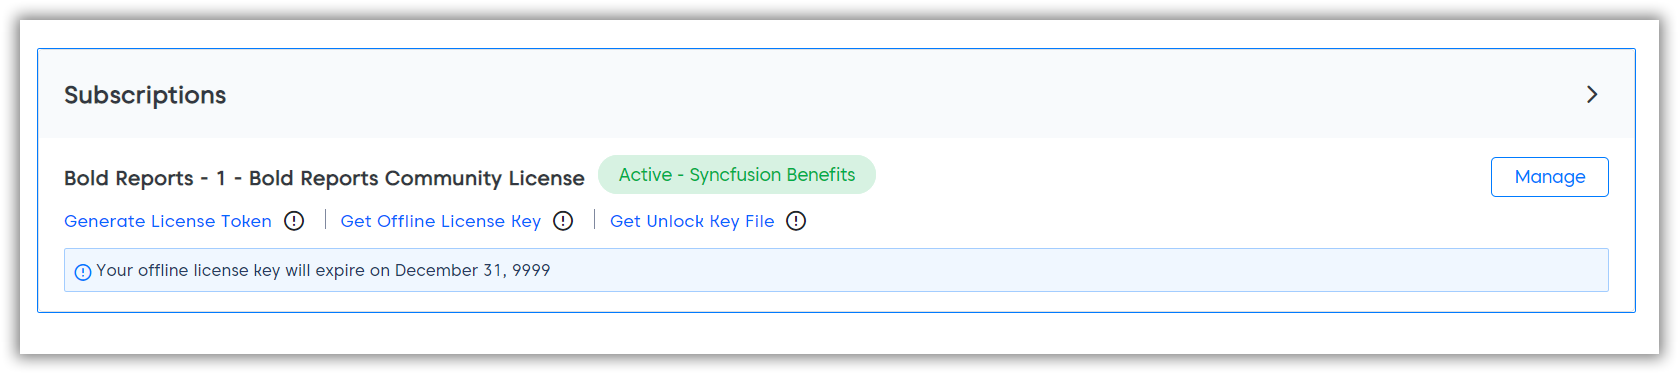
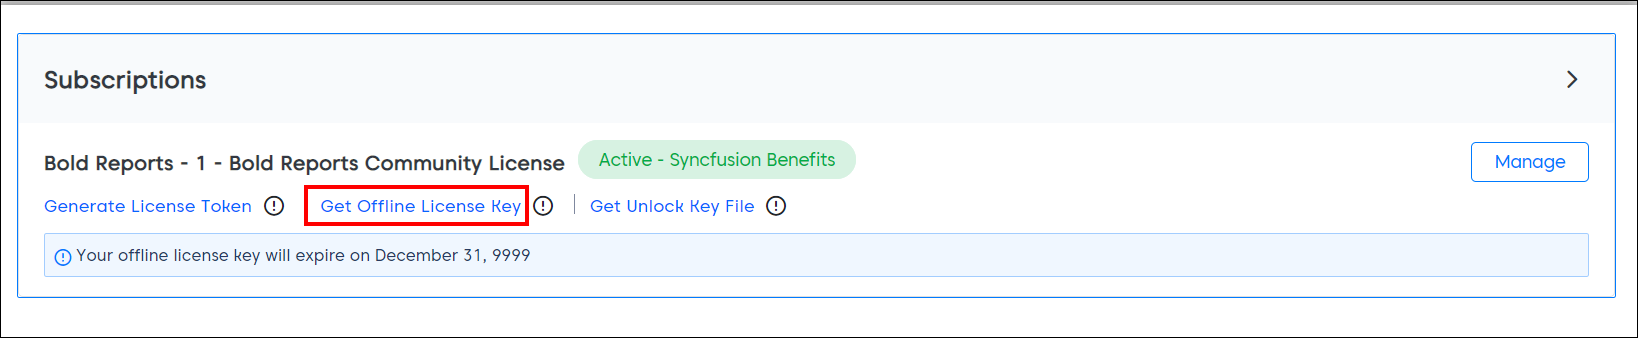
documentation(REPORT-345017): includes offline license

Changed region(s): [[0.0, 0.0, 1.0, 1.0], [0.8718, 0.503, 0.9029, 0.5325]]

diff --git a/docs/licensing.md b/docs/licensing.md
@@ -6,28 +6,91 @@ platform: report-platform
 documentation: ug
 ---
 
-# Enterprise License overview
+# Enterprise License Overview
 
-Starting with the version v2.x, Bold Reports introduced a new licensing system.
+An enterprise license is a type of software licensing agreement that grants a large organization the right to use a software product across the entire business. It allows them to use the software or service across the entire organization without needing to get individual licenses for each user or device.
+
+**Key characteristics of an enterprise license often include:**
+
+1. **Unlimited Usage:** The software can be installed and used on any number of devices within the organization, without restrictions on the number of users or installations.
+
+2. **Centralized Management:** The organization can manage all licenses centrally, making it easier to track usage, renewals, and compliance.
+
+3. **Additional Features:** Enterprise licenses often come with access to additional features or services, such as premium support, training, and customization options.
+
+4. **Cost Efficiency:** Compared to purchasing individual licenses for each user or device, enterprise licensing offers cost efficiency. This could involve a flat fee, a pricing structure based on the organization's size, or a usage-based model.
+
+## Types of License validation in Bold Reports:
+
+1. [Online License Validation](#online-license-validation)
+
+2. [Offline License Validation](#offline-license-validation)
+
+## Online License Validation
+
+* Online license validation is a process used by software companies to verify the authenticity and legality of a software license by connecting to the internet. It ensures that the provided license key or credentials are legitimate before allowing the software to operate or granting access to certain features.
+
+* To activate your account and start the Bold Reports Enterprise Application using online license validation, use your login credentials. For more detailed instructions, please follow the [documentation](./../administrator-guide/application-startup/#activate-the-account-using-login-credentials).
+
+### How It Works
+
+1. **User Input:** When a user installs or activates the software, they enter a license key or credentials provided by the software vendor.
+
+2. **License Check:** The software sends a request to the vendor's server over the internet, including details about the license key or credentials.
+
+3. **Validation:** The server checks the provided license key or credentials to verify if they are genuine, unused, and align with the authorized usage rights.
+
+4. **Authorization:** If the license key meets the criteria and is valid, the software is authorized to run or access various features according to the terms of the license agreement.
+
+### Uses of an Online License Validation
+
+1. **Anti-Piracy Measure:** Online validation helps prevent software piracy by ensuring that only genuine and authorized license keys are accepted, reducing unauthorized usage or distribution.
+
+2. **Ensuring Compliance:** It ensures users adhere to the software license terms and conditions, allowing software providers to monitor and regulate authorized software use.
+
+3. **Security Enhancement:** By validating licenses online, it adds a layer of security, allowing only legitimate users with authorized licenses to access the software, reducing the risk of unauthorized access or security breaches.
+
+4. **Subscription and Payment Models:** It supports subscription-based or usage-based payment models by periodically verifying licenses to ensure users maintain active subscriptions or licenses for continued access.
+
+5. **Version Control and Updates:** Online validation ensures users have access to the correct version or updates of the software, maintaining compatibility, security, and functionality.
 
 ## Offline license validation
 
-Starting with the version v2.4.x, Bold Reports introduced an offline licensing system.
+* Offline license validation involves authenticating the legitimacy of a software license without requiring an active internet connection. It verifies the validity and authenticity of a provided license key or credentials locally on the device without connecting to a central server or online system.
 
-We have provided the support to validate the license even when the machine is without an internet connection.
+* While the default setting for the Bold Reports License mandates online license validation, if you face network limitations or any barriers hindering online license validation, you can obtain an offline license key for your subscription.
 
-This topic describes how to enable offline license validation in the Bold Reports Enterprise Edition. Follow the given steps:
+* To activate your account and start the Bold Reports Enterprise Application using offline license validation, please follow the [documentation](./../administrator-guide/application-startup/#offline-installation).
 
-### Get offline license key file
+### How It Works
 
-The offline License key file( `.lic` ) can be generated from the [Downloads](https://www.boldreports.com/account/downloads) section of
-the [Bold Reports](https://www.boldreports.com/account) site.
+1. **Local Verification:** The process authenticates the license key or credentials directly on the user's device, checking their validity without requiring an internet connection.
 
-![Offline License](/static/assets/on-premise/images/getting-started/offline-license.png)
+2. **Validation Process:** The software compares the provided license key or credentials against locally stored data or cryptographic methods to ensure they are genuine and in line with the software's licensing terms.
 
-### Place offline license key file
+3. **Authorization:** If the license key or credentials are valid and meet the validation criteria, the software gets authorized to run or access specific features as per the terms of the license agreement.
 
-Place the downloaded license key file in the Bold Reports installed location. Follow the given steps:
+### Uses of an Offline License Validation
+
+1. **Limited Internet Access:** It's beneficial in environments with limited or no internet connectivity, ensuring software activation and usage without requiring an online connection.
+
+2. **Secure Environments:** For highly secure environments, closed networks, or systems isolated from the internet for security reasons, offline validation ensures software activation without compromising security.
+
+3. **Remote Locations:** In areas with poor connectivity, offline validation allows software usage without depending on internet availability.
+
+4. **Confidentiality and Privacy:** It offers a layer of privacy by verifying licenses locally, without transmitting sensitive license information over the internet.
+
+5. **Reduced Dependency:** It decreases reliance on continuous internet access for license validation, making it convenient for users operating in offline or restricted network environments.
+
+### How to get the offline license key file
+
+* The offline license key file( `.lic` ) can be generated from the [Downloads](https://www.boldreports.com/account/downloads) section of the Bold Reports site. Once offline license support has been activated, initiating an activation request for offline license access can be done through our [support system](https://support.boldreports.com/) or contact our sales team at (sales@syncfusion.com).For more info refer to [KB](https://support.boldreports.com/kb/article/13271/how-do-i-get-my-offline-license-key-from-our-bold-reports-account-page).
+
+   ![Offline License](/static/assets/on-premise/images/getting-started/offline-license.png)
+
+### Where to place the offline license key file
+
+Place the downloaded license key file in the Bold Reports installation location. Follow the given steps:
 
 1. The offline license file should have the name `boldreports_components_licensekey.lic`.
 
@@ -37,12 +100,21 @@ Place the downloaded license key file in the Bold Reports installed location. Fo
 
    Example: C:\BoldServices\app_data\reporting\configuration
 
-   >By default, Bold Reports will be deployed on C:\BoldServices
+   >By default, Bold Reports will be deployed on C:\BoldServices.
 
-3. Restart the Bold Reports application.
+3. Open the config.xml file at the below location:
+   `{deployment_location}\app_data\reporting\configuration\config.xml`
 
-```steps
-The license key will expire based on the validity of the subscription.
+4. Set true to the OfflineCapable node, if the node is not available, then add the node as shown below and then save the file. Refer to [kb](https://support.boldreports.com/kb/article/14885/enable-offline-mode-for-bold-reports-resolve-errors-when-an-internet-connections-are-not-available) for more info.
+   `<OfflineCapable>true</OfflineCapable>`
+   ![Offline Capable](/static/assets/on-premise/images/getting-started/offline-capable-node.png)
 
-After the expiration date, you have to renew and change the license key.
-```
+5. [Restart](./../administrator-guide/faq/how-to-restart-the-bold-reports-enterprise-application/) the Bold Reports application.
+
+   ```steps
+   The license key will expire based on the validity of the subscription.
+
+   After the expiration date, you have to renew and change the license key.
+   ```
+
+> **Note:** You can change your Bold Reports license by referring to the [documentation](./../administrator-guide/application-startup/#activate-bold-reports-license).
